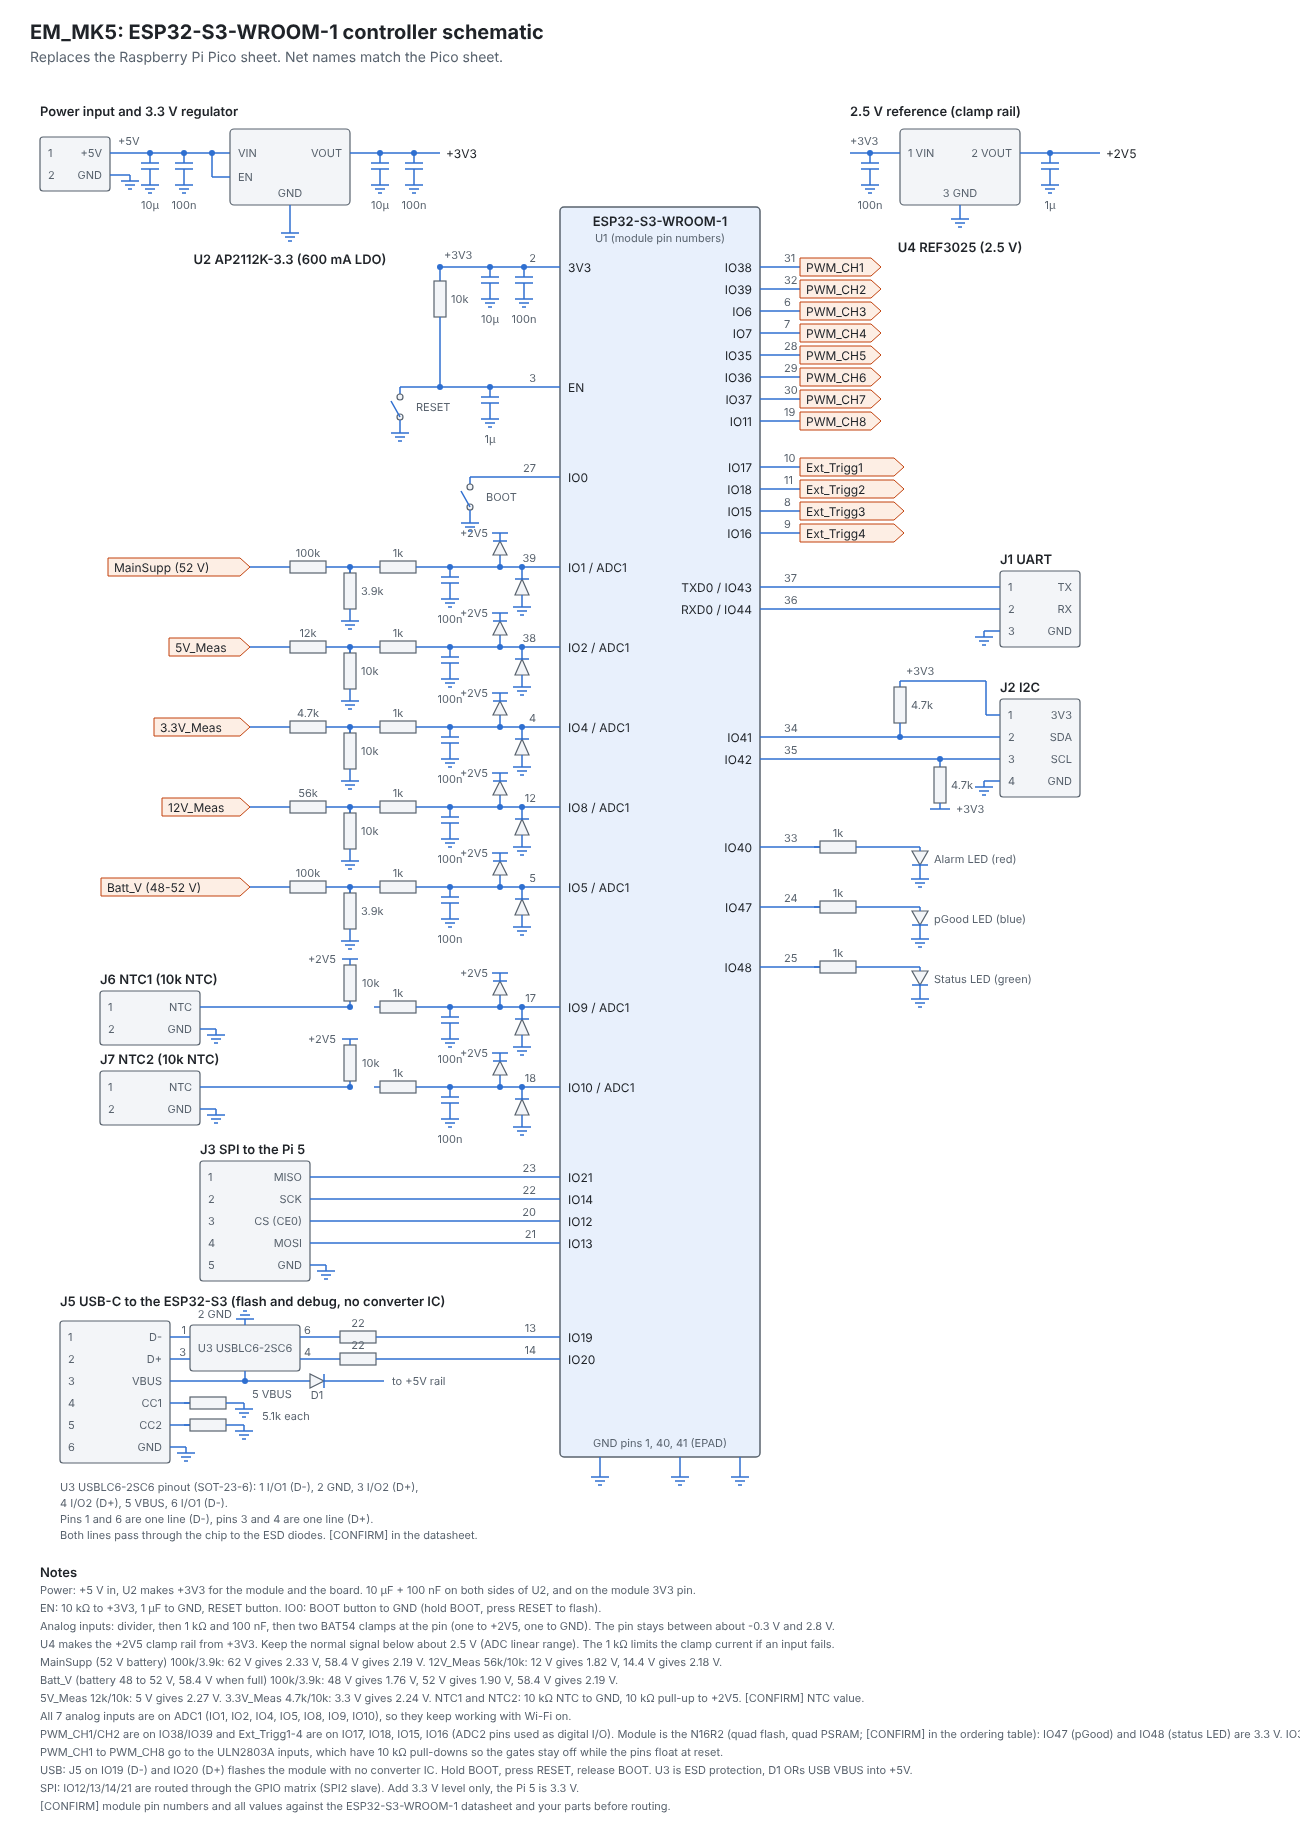
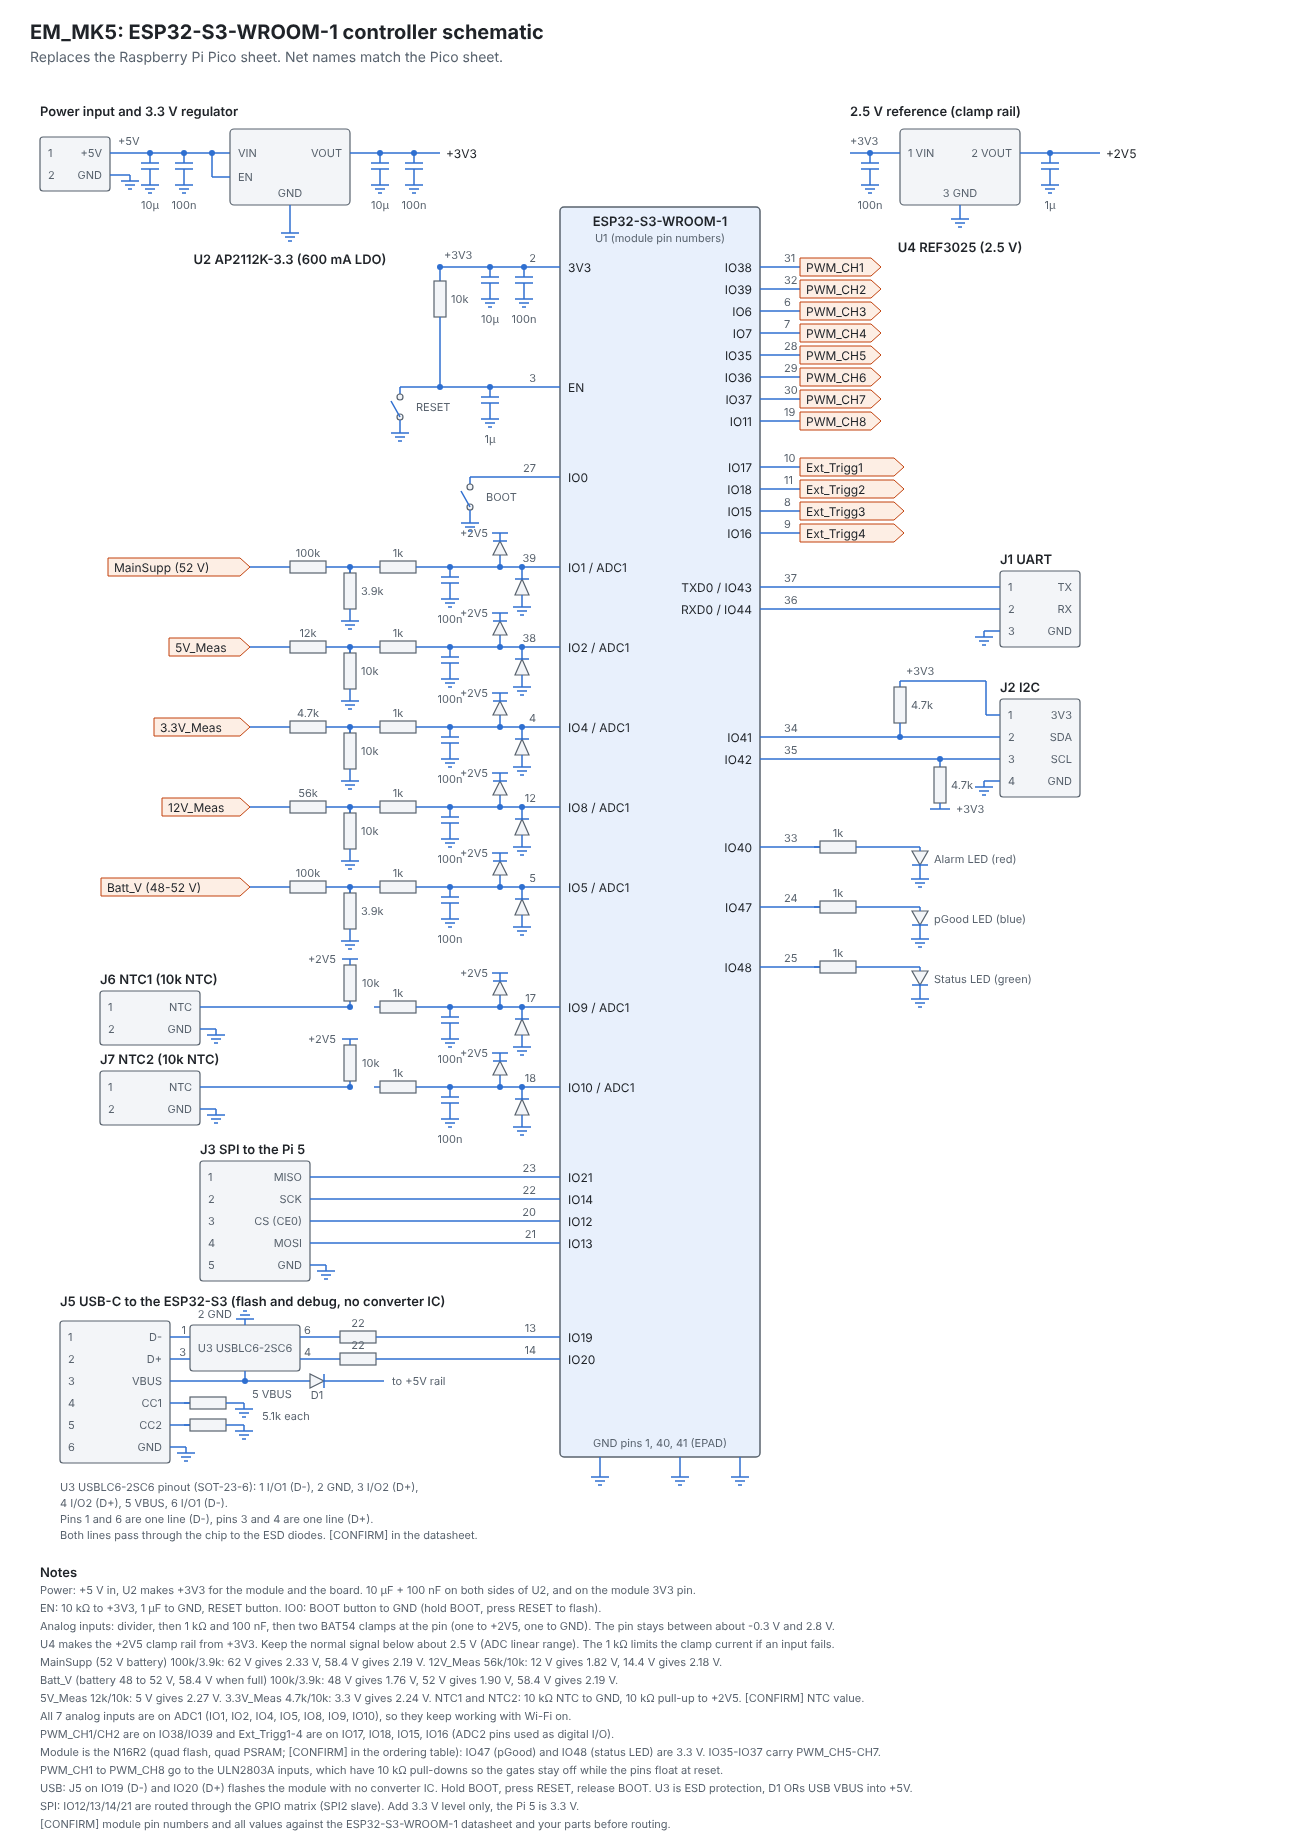
Schematic notes: split long line

diff --git a/ESP32_S3_schematic.html b/ESP32_S3_schematic.html
@@ -8,7 +8,7 @@ svg{width:100%;max-width:1300px;height:auto;display:block;margin:0 auto}
 .c{stroke:var(--bd);stroke-width:1.2;fill:var(--box)}.m{stroke:var(--bd);stroke-width:1.5;fill:var(--mod)}
 .p{stroke:var(--pb);stroke-width:1;fill:var(--port)}
 .t{font-size:12px;fill:var(--t)}.s{font-size:11px;fill:var(--m)}.th{font-size:13px;font-weight:600;fill:var(--t)}.pt{font-size:12px;fill:var(--t)}
-</style></head><body><h1>EM_MK5: ESP32-S3-WROOM-1 controller schematic</h1><p class="d">Replaces the Raspberry Pi Pico sheet. Net names match the Pico sheet.</p><svg viewBox="0 0 1300 1750" role="img" aria-label="EM_MK5 ESP32-S3 controller schematic"><rect class="m" x="560" y="130" width="200" height="1250" rx="4"/>
+</style></head><body><h1>EM_MK5: ESP32-S3-WROOM-1 controller schematic</h1><p class="d">Replaces the Raspberry Pi Pico sheet. Net names match the Pico sheet.</p><svg viewBox="0 0 1300 1770" role="img" aria-label="EM_MK5 ESP32-S3 controller schematic"><rect class="m" x="560" y="130" width="200" height="1250" rx="4"/>
 <text class="th" x="660.0" y="144" text-anchor="middle" dominant-baseline="central">ESP32-S3-WROOM-1</text>
 <text class="s" x="660.0" y="161" text-anchor="middle" dominant-baseline="central">U1 (module pin numbers)</text>
 <line class="w" x1="600" y1="1380" x2="600" y2="1394"/>
@@ -887,8 +887,9 @@ svg{width:100%;max-width:1300px;height:auto;display:block;margin:0 auto}
 <text class="s" x="40" y="1603" text-anchor="start" dominant-baseline="central">Batt_V (battery 48 to 52 V, 58.4 V when full) 100k/3.9k: 48 V gives 1.76 V, 52 V gives 1.90 V, 58.4 V gives 2.19 V.</text>
 <text class="s" x="40" y="1621" text-anchor="start" dominant-baseline="central">5V_Meas 12k/10k: 5 V gives 2.27 V. 3.3V_Meas 4.7k/10k: 3.3 V gives 2.24 V. NTC1 and NTC2: 10 kΩ NTC to GND, 10 kΩ pull-up to +2V5. [CONFIRM] NTC value.</text>
 <text class="s" x="40" y="1639" text-anchor="start" dominant-baseline="central">All 7 analog inputs are on ADC1 (IO1, IO2, IO4, IO5, IO8, IO9, IO10), so they keep working with Wi-Fi on.</text>
-<text class="s" x="40" y="1657" text-anchor="start" dominant-baseline="central">PWM_CH1/CH2 are on IO38/IO39 and Ext_Trigg1-4 are on IO17, IO18, IO15, IO16 (ADC2 pins used as digital I/O). Module is the N16R2 (quad flash, quad PSRAM; [CONFIRM] in the ordering table): IO47 (pGood) and IO48 (status LED) are 3.3 V. IO35-IO37 carry PWM_CH5-CH7.</text>
-<text class="s" x="40" y="1675" text-anchor="start" dominant-baseline="central">PWM_CH1 to PWM_CH8 go to the ULN2803A inputs, which have 10 kΩ pull-downs so the gates stay off while the pins float at reset.</text>
-<text class="s" x="40" y="1693" text-anchor="start" dominant-baseline="central">USB: J5 on IO19 (D-) and IO20 (D+) flashes the module with no converter IC. Hold BOOT, press RESET, release BOOT. U3 is ESD protection, D1 ORs USB VBUS into +5V.</text>
-<text class="s" x="40" y="1711" text-anchor="start" dominant-baseline="central">SPI: IO12/13/14/21 are routed through the GPIO matrix (SPI2 slave). Add 3.3 V level only, the Pi 5 is 3.3 V.</text>
-<text class="s" x="40" y="1729" text-anchor="start" dominant-baseline="central">[CONFIRM] module pin numbers and all values against the ESP32-S3-WROOM-1 datasheet and your parts before routing.</text></svg></body></html>
+<text class="s" x="40" y="1657" text-anchor="start" dominant-baseline="central">PWM_CH1/CH2 are on IO38/IO39 and Ext_Trigg1-4 are on IO17, IO18, IO15, IO16 (ADC2 pins used as digital I/O).</text>
+<text class="s" x="40" y="1675" text-anchor="start" dominant-baseline="central">Module is the N16R2 (quad flash, quad PSRAM; [CONFIRM] in the ordering table): IO47 (pGood) and IO48 (status LED) are 3.3 V. IO35-IO37 carry PWM_CH5-CH7.</text>
+<text class="s" x="40" y="1693" text-anchor="start" dominant-baseline="central">PWM_CH1 to PWM_CH8 go to the ULN2803A inputs, which have 10 kΩ pull-downs so the gates stay off while the pins float at reset.</text>
+<text class="s" x="40" y="1711" text-anchor="start" dominant-baseline="central">USB: J5 on IO19 (D-) and IO20 (D+) flashes the module with no converter IC. Hold BOOT, press RESET, release BOOT. U3 is ESD protection, D1 ORs USB VBUS into +5V.</text>
+<text class="s" x="40" y="1729" text-anchor="start" dominant-baseline="central">SPI: IO12/13/14/21 are routed through the GPIO matrix (SPI2 slave). Add 3.3 V level only, the Pi 5 is 3.3 V.</text>
+<text class="s" x="40" y="1747" text-anchor="start" dominant-baseline="central">[CONFIRM] module pin numbers and all values against the ESP32-S3-WROOM-1 datasheet and your parts before routing.</text></svg></body></html>
